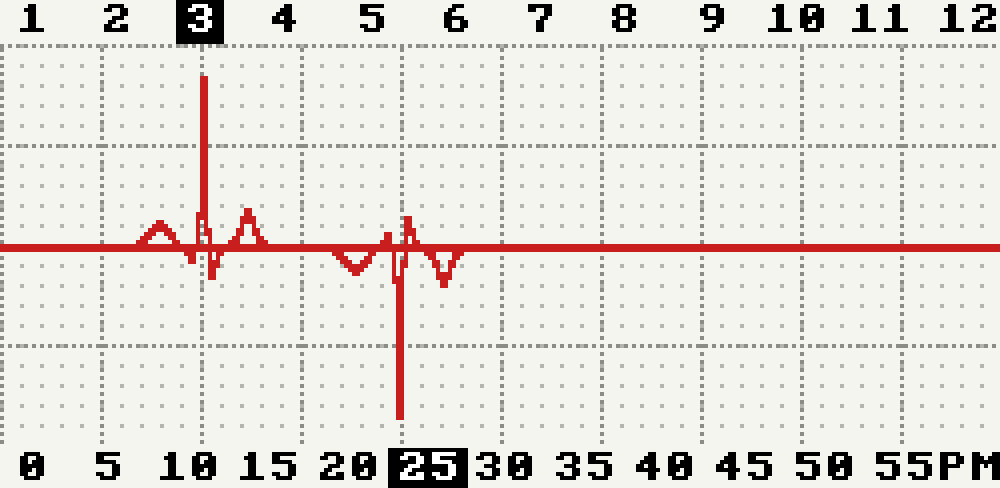
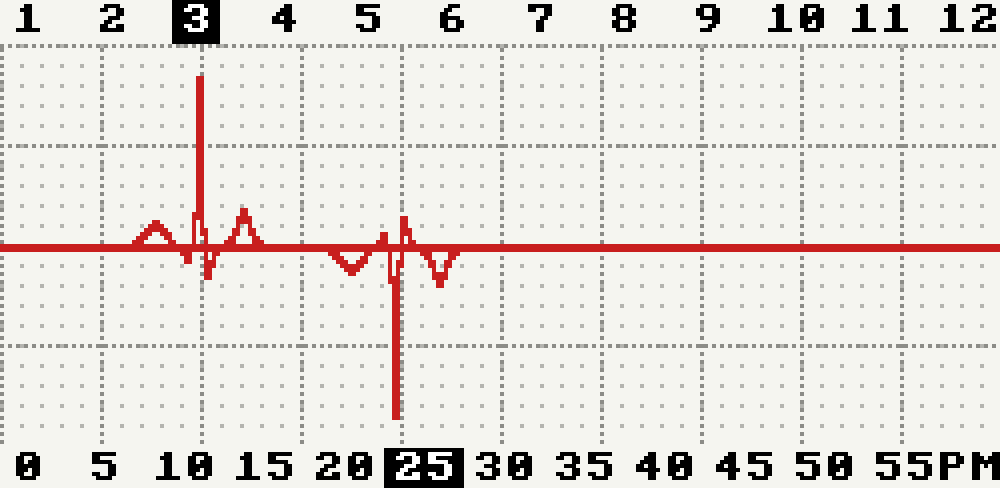
Shift graph 1 pixel left to align spikes with labels
Claude-Session: https://claude.ai/code/session_01XLdymnhpdpLwgaRh7QXt88

diff --git a/preview.py b/preview.py
@@ -12,7 +12,7 @@ _GRID_TOP = 11
 _BL = 61
 _GRID_BOT = 110
 _LBL_MN_Y = 113
-_X0, _X1 = 8, 242
+_X0, _X1 = 7, 242
 _XR = _X1 - _X0
 _ECG_HW = 22
 _PK = 42

diff --git a/watchface.py b/watchface.py
@@ -7,7 +7,7 @@ _BL = 61
 _GRID_BOT = 110
 _LBL_MN_Y = 113
 
-_X0 = 8
+_X0 = 7
 _X1 = 242
 _XR = _X1 - _X0
 
